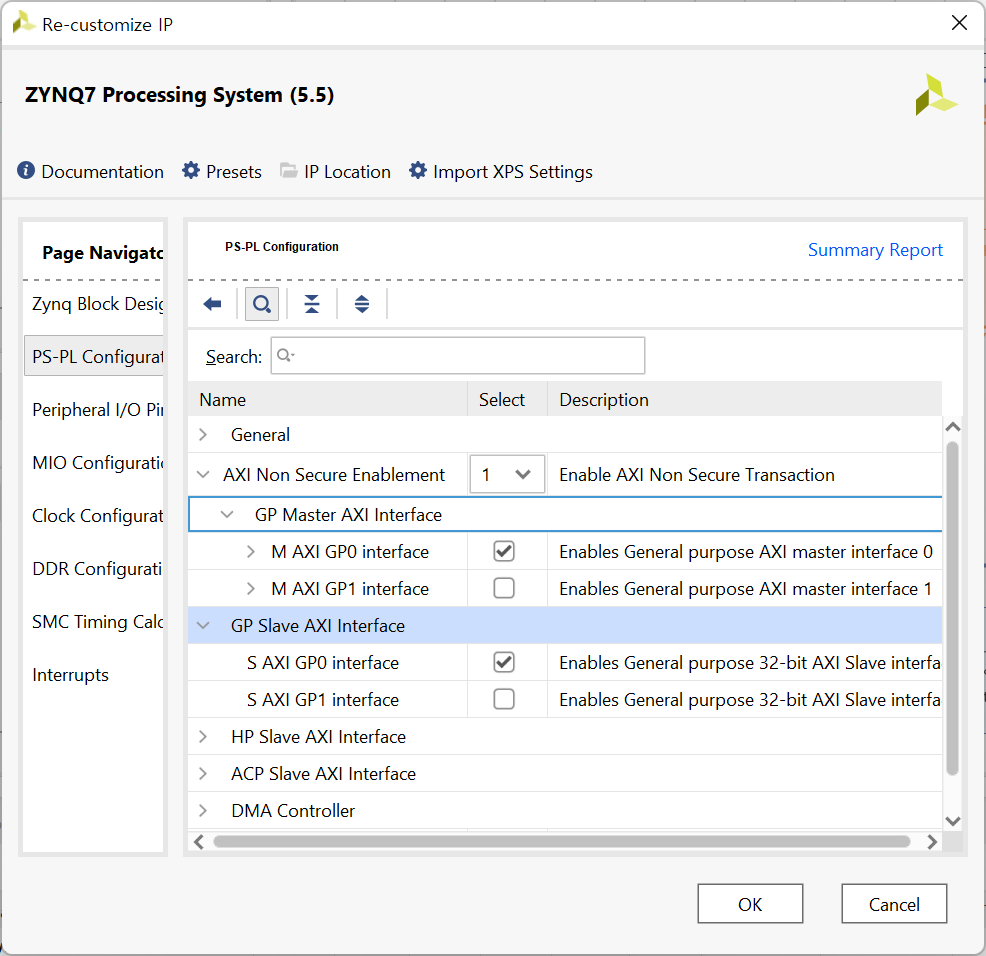
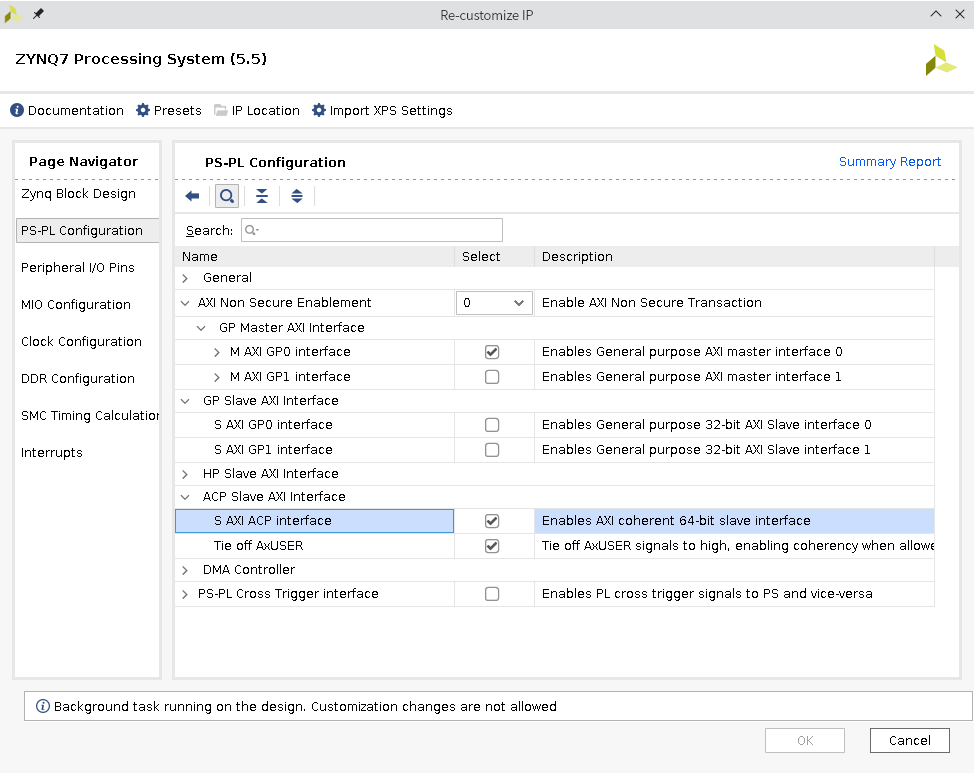
[doc] Use ACP instead of AXI GP bus

diff --git a/README.md b/README.md
@@ -22,7 +22,7 @@
 1. Vivado 프로젝트를 [다음 Notion 문서](https://www.notion.so/tsnlab/Zynq-Hello-world-75ef620c18484698bf9cf613568a48e0) 를 참조하여, 생성한다.
 2. Create Block Design 이후, 꼭! Design Sources > design_1.bd (생성한 디자인 이름) 을 우클릭하여, Create HDL Wrapper 를 눌러 준다. 특별한 이유가 없다면, HDL Wrapper 를 만들 때 Vivado 가 자동으로 관리하도록 옵션을 선택한다.
 3. ZYNQ IP core 를 위의 문서와는 다르게, 다음 구성으로 세팅한다.
-![Re-customize PS IP](./asset/img/PS-PL_config.png) 이 때 반드시 AXI Non Secure Enablement 를 1로 세팅한다.
+![Re-customize PS IP](./asset/img/PS-PL_config.png)
 4. 다음 [XDC 파일](https://github.com/Digilent/digilent-xdc/blob/master/Zybo-Z7-Master.xdc)을 내려받는다
 5. 해당 파일에서 다음 부분을 주석 해제한다:
 ```
